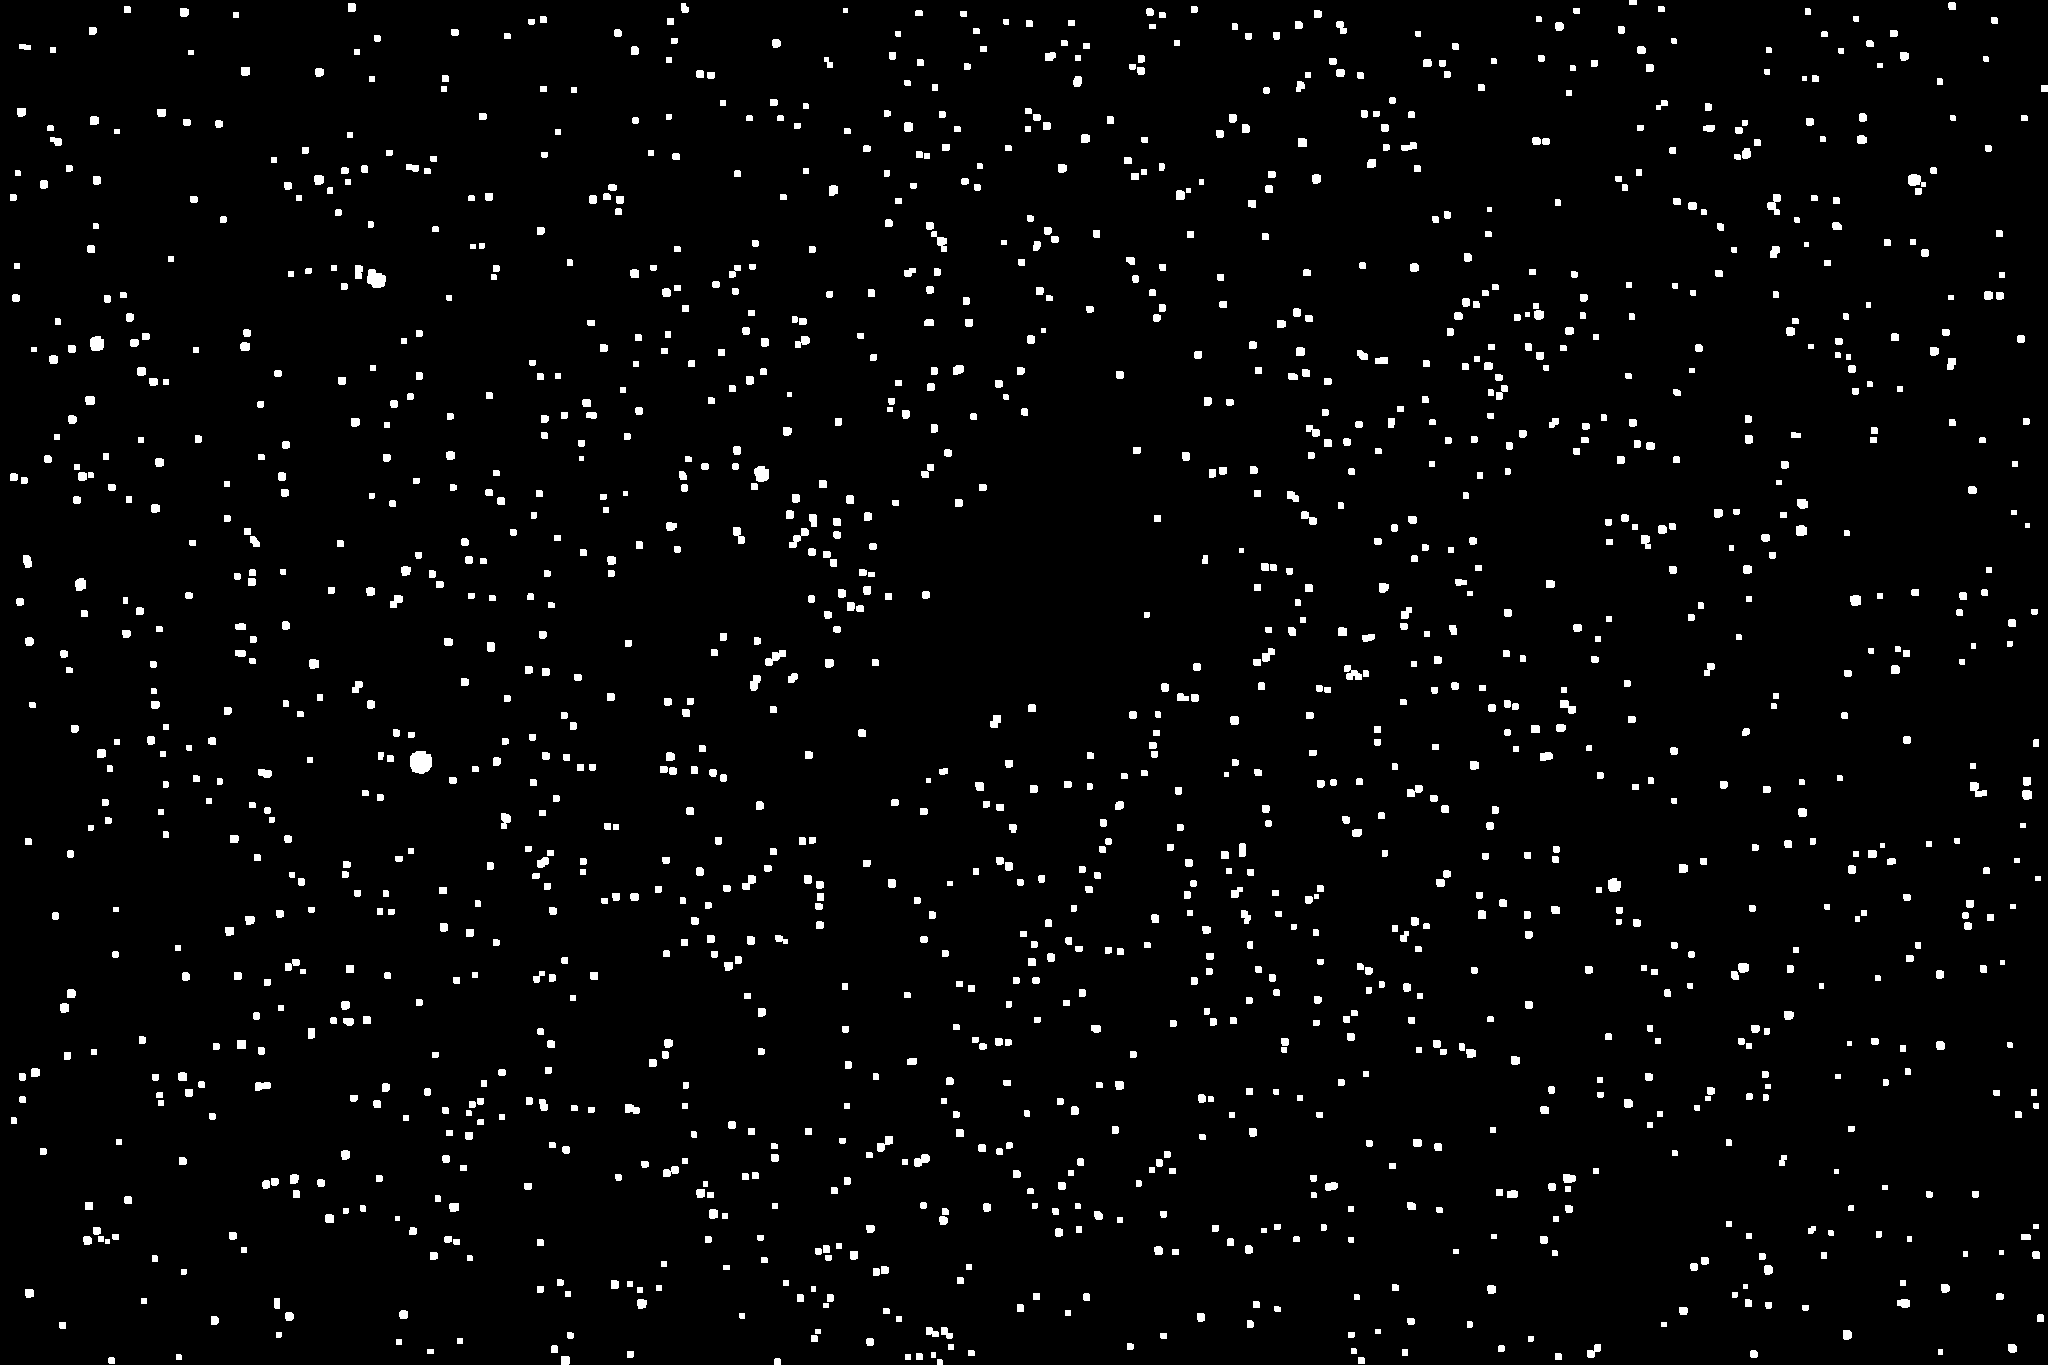
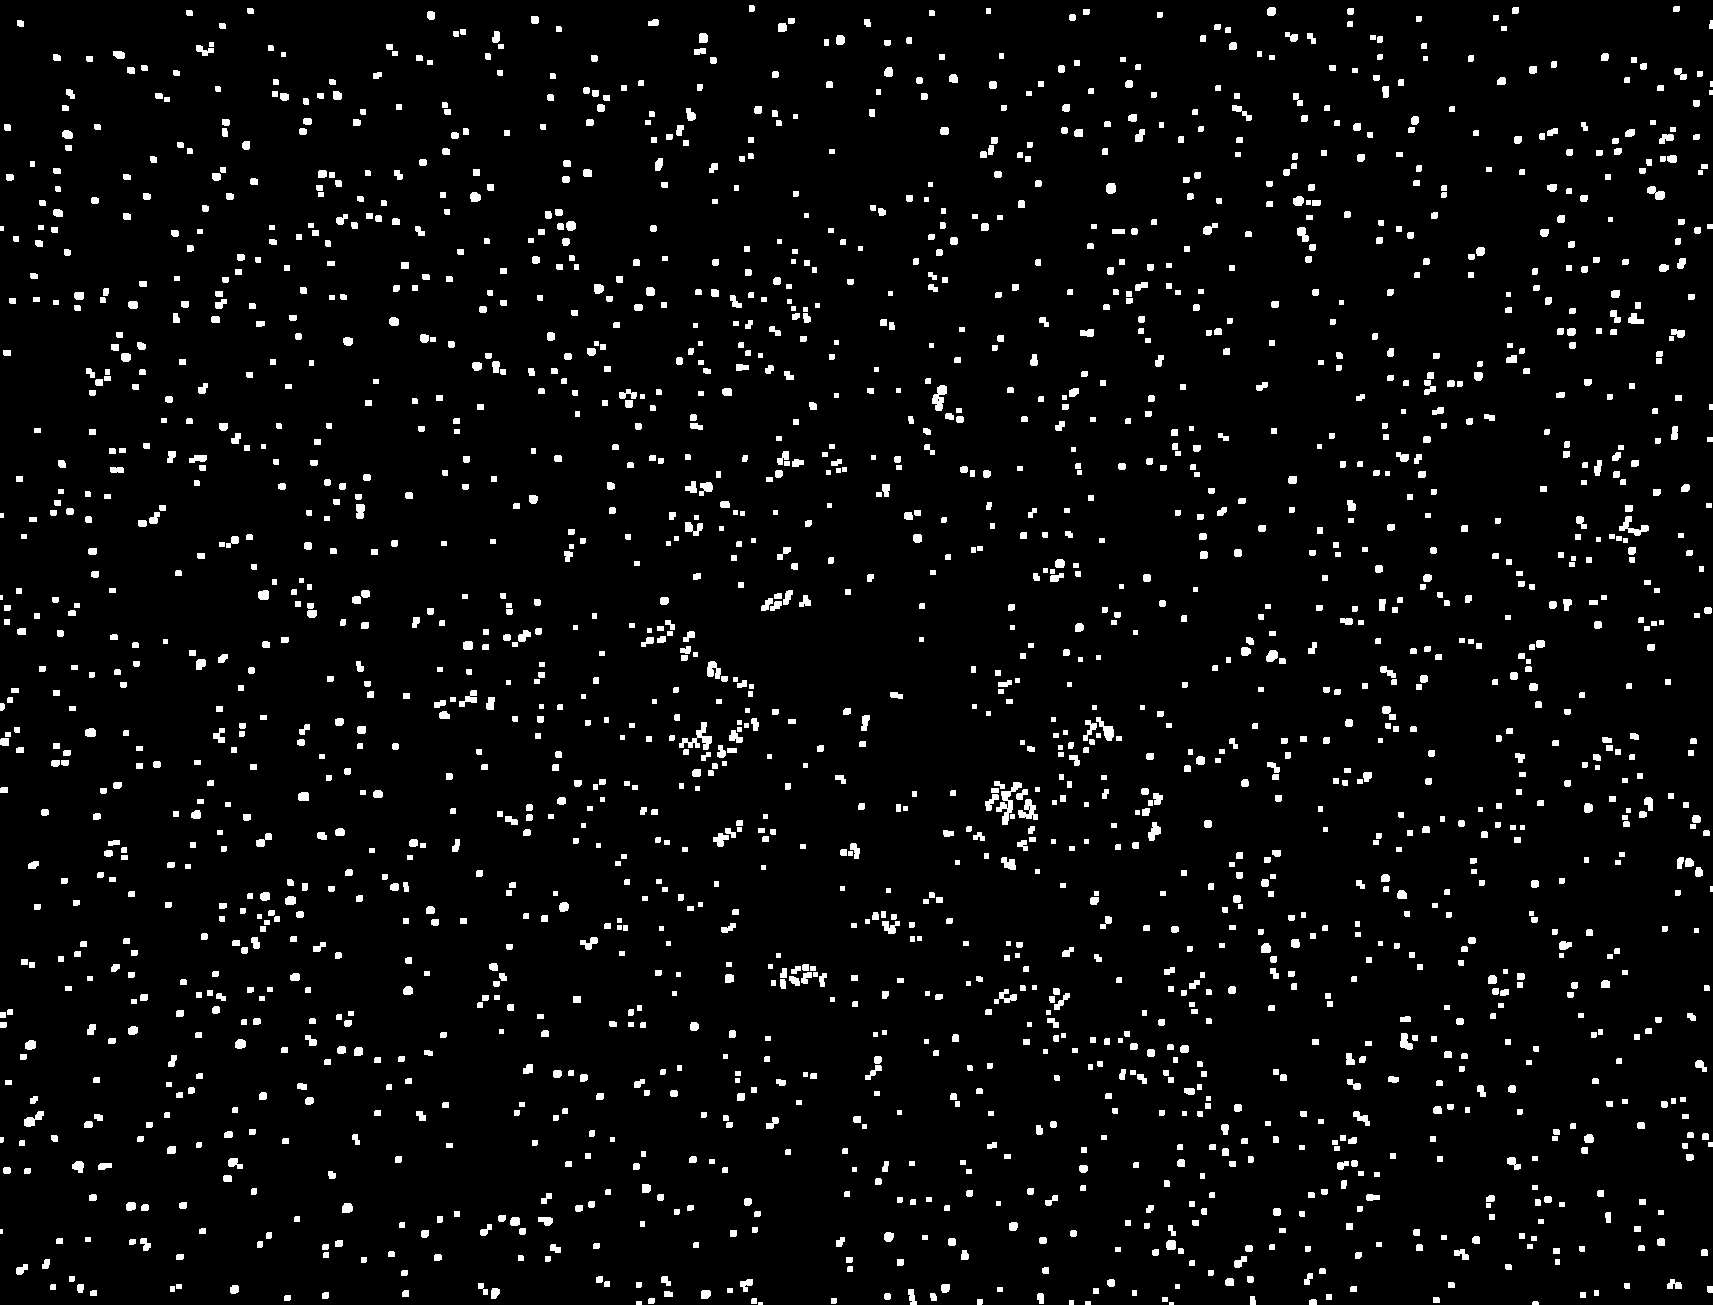
Improvment in algorithm

diff --git a/watershed.py b/watershed.py
@@ -2,6 +2,8 @@ import argparse
 
 import numpy as np
 import cv2
+import matplotlib.pyplot as plt
+import matplotlib.image as mpimg
 
 def save_image(image, output_path):
     cv2.imwrite(output_path, image)
@@ -12,24 +14,27 @@ def apply_threshold(image):
     save_image(thresh, 'images/thresh.png')
     return thresh
 
-def detect_edges_and_draw_contours(threshold_image, grayscale_image):
-    edges = cv2.Canny(threshold_image, 100, 200)
-    contours, hierarchy = cv2.findContours(edges, cv2.RETR_EXTERNAL, cv2.CHAIN_APPROX_SIMPLE)
-    mask = np.zeros_like(grayscale_image)  # Create a mask the same size as the gray image
-    for cnt in contours:
-        cv2.drawContours(mask, [cnt], -1, 255, -1)  # Draw filled contour in white
-    # Convert mask to boolean
-    mask_bool = mask.astype(bool)
-    # Create an empty array with the same shape as the original image but filled with black
-    result = np.zeros_like(threshold_image)
-    # Apply the mask to copy the original color where the mask is true
-    result[mask_bool] = threshold_image[mask_bool]
+def detect_connected_components(threshold_image):
+    num_labels, labels_im = cv2.connectedComponents(threshold_image)
+    # Map component labels to hue val, 0-179 is the hue range in OpenCV
+    label_hue = np.uint8(179 * labels_im / np.max(labels_im))
+    blank_ch = 255 * np.ones_like(label_hue)
+    labeled_img = cv2.merge([label_hue, blank_ch, blank_ch])
 
-    save_image(result, 'images/contured_image.png')
-    return result
+    # Converting cvt to BGR
+    labeled_img = cv2.cvtColor(labeled_img, cv2.COLOR_BGR2GRAY)
+
+    # Set background label to black
+    labeled_img[label_hue == 0] = 0
+    # Set the image to white where the labels are not 0 (not the background)
+    labeled_img[label_hue > 0] = 255
+
+    plt.imsave('images/labaled_image.png', labeled_img)
+    return labeled_img
 
 def apply_watershed(noise_free_img, grayscale_image, original_image):
     kernel = np.ones((3, 3), np.uint8)
+
     # sure background area
     sure_bg = cv2.dilate(noise_free_img, kernel, iterations=1)
     save_image(sure_bg, 'images/sure_bg.png')
@@ -66,6 +71,24 @@ def apply_watershed(noise_free_img, grayscale_image, original_image):
     save_image(original_image, 'images/watershed_output.png')
     return markers
 
+def display_images(image_path):
+    # Load the images
+    image1 = mpimg.imread(image_path)
+    image2 = mpimg.imread('images/watershed_output.png')
+
+    # Create a figure to display the images
+    fig, ax = plt.subplots(1, 2)  # 1 row, 2 columns
+
+    # Display the first image
+    ax[0].imshow(image1)
+    ax[0].axis('off')  # Turn off axis numbering and ticks for the first image
+
+    # Display the second image
+    ax[1].imshow(image2)
+    ax[1].axis('off')  # Turn off axis numbering and ticks for the second image
+
+    plt.show()
+
 def count_stars(markers):
     unique_markers = np.unique(markers)
     unique_markers = np.delete(unique_markers, np.where(unique_markers <= 1))
@@ -75,17 +98,21 @@ def main(image_path):
     print("Starting process...")
     image = cv2.imread(image_path)
     gray_img = cv2.cvtColor(image, cv2.COLOR_BGR2GRAY)
+
     print("Applying threshold...")
     threshold = apply_threshold(gray_img)
-    print("Detecting edges and drawing contours...")
-    edges_detected = detect_edges_and_draw_contours(threshold, gray_img)
 
-    kernel = np.ones((3,3),np.uint8)
+    print("Discovering connected components...")
+    components_detected = detect_connected_components(threshold)
+
     print("Applying morphological transformations...")
-    opening_image = cv2.morphologyEx(edges_detected, cv2.MORPH_OPEN, kernel)
+    kernel = np.ones((3, 3), np.uint8)
+    opening_image = cv2.morphologyEx(components_detected, cv2.MORPH_OPEN, kernel)
     save_image(opening_image, 'images/opening.png')
+
     print("Applying watershed algorithm...")
     markers = apply_watershed(opening_image, gray_img, image)
+
     num_stars = count_stars(markers)
     print(f"Number of stars found: {num_stars}")
 
